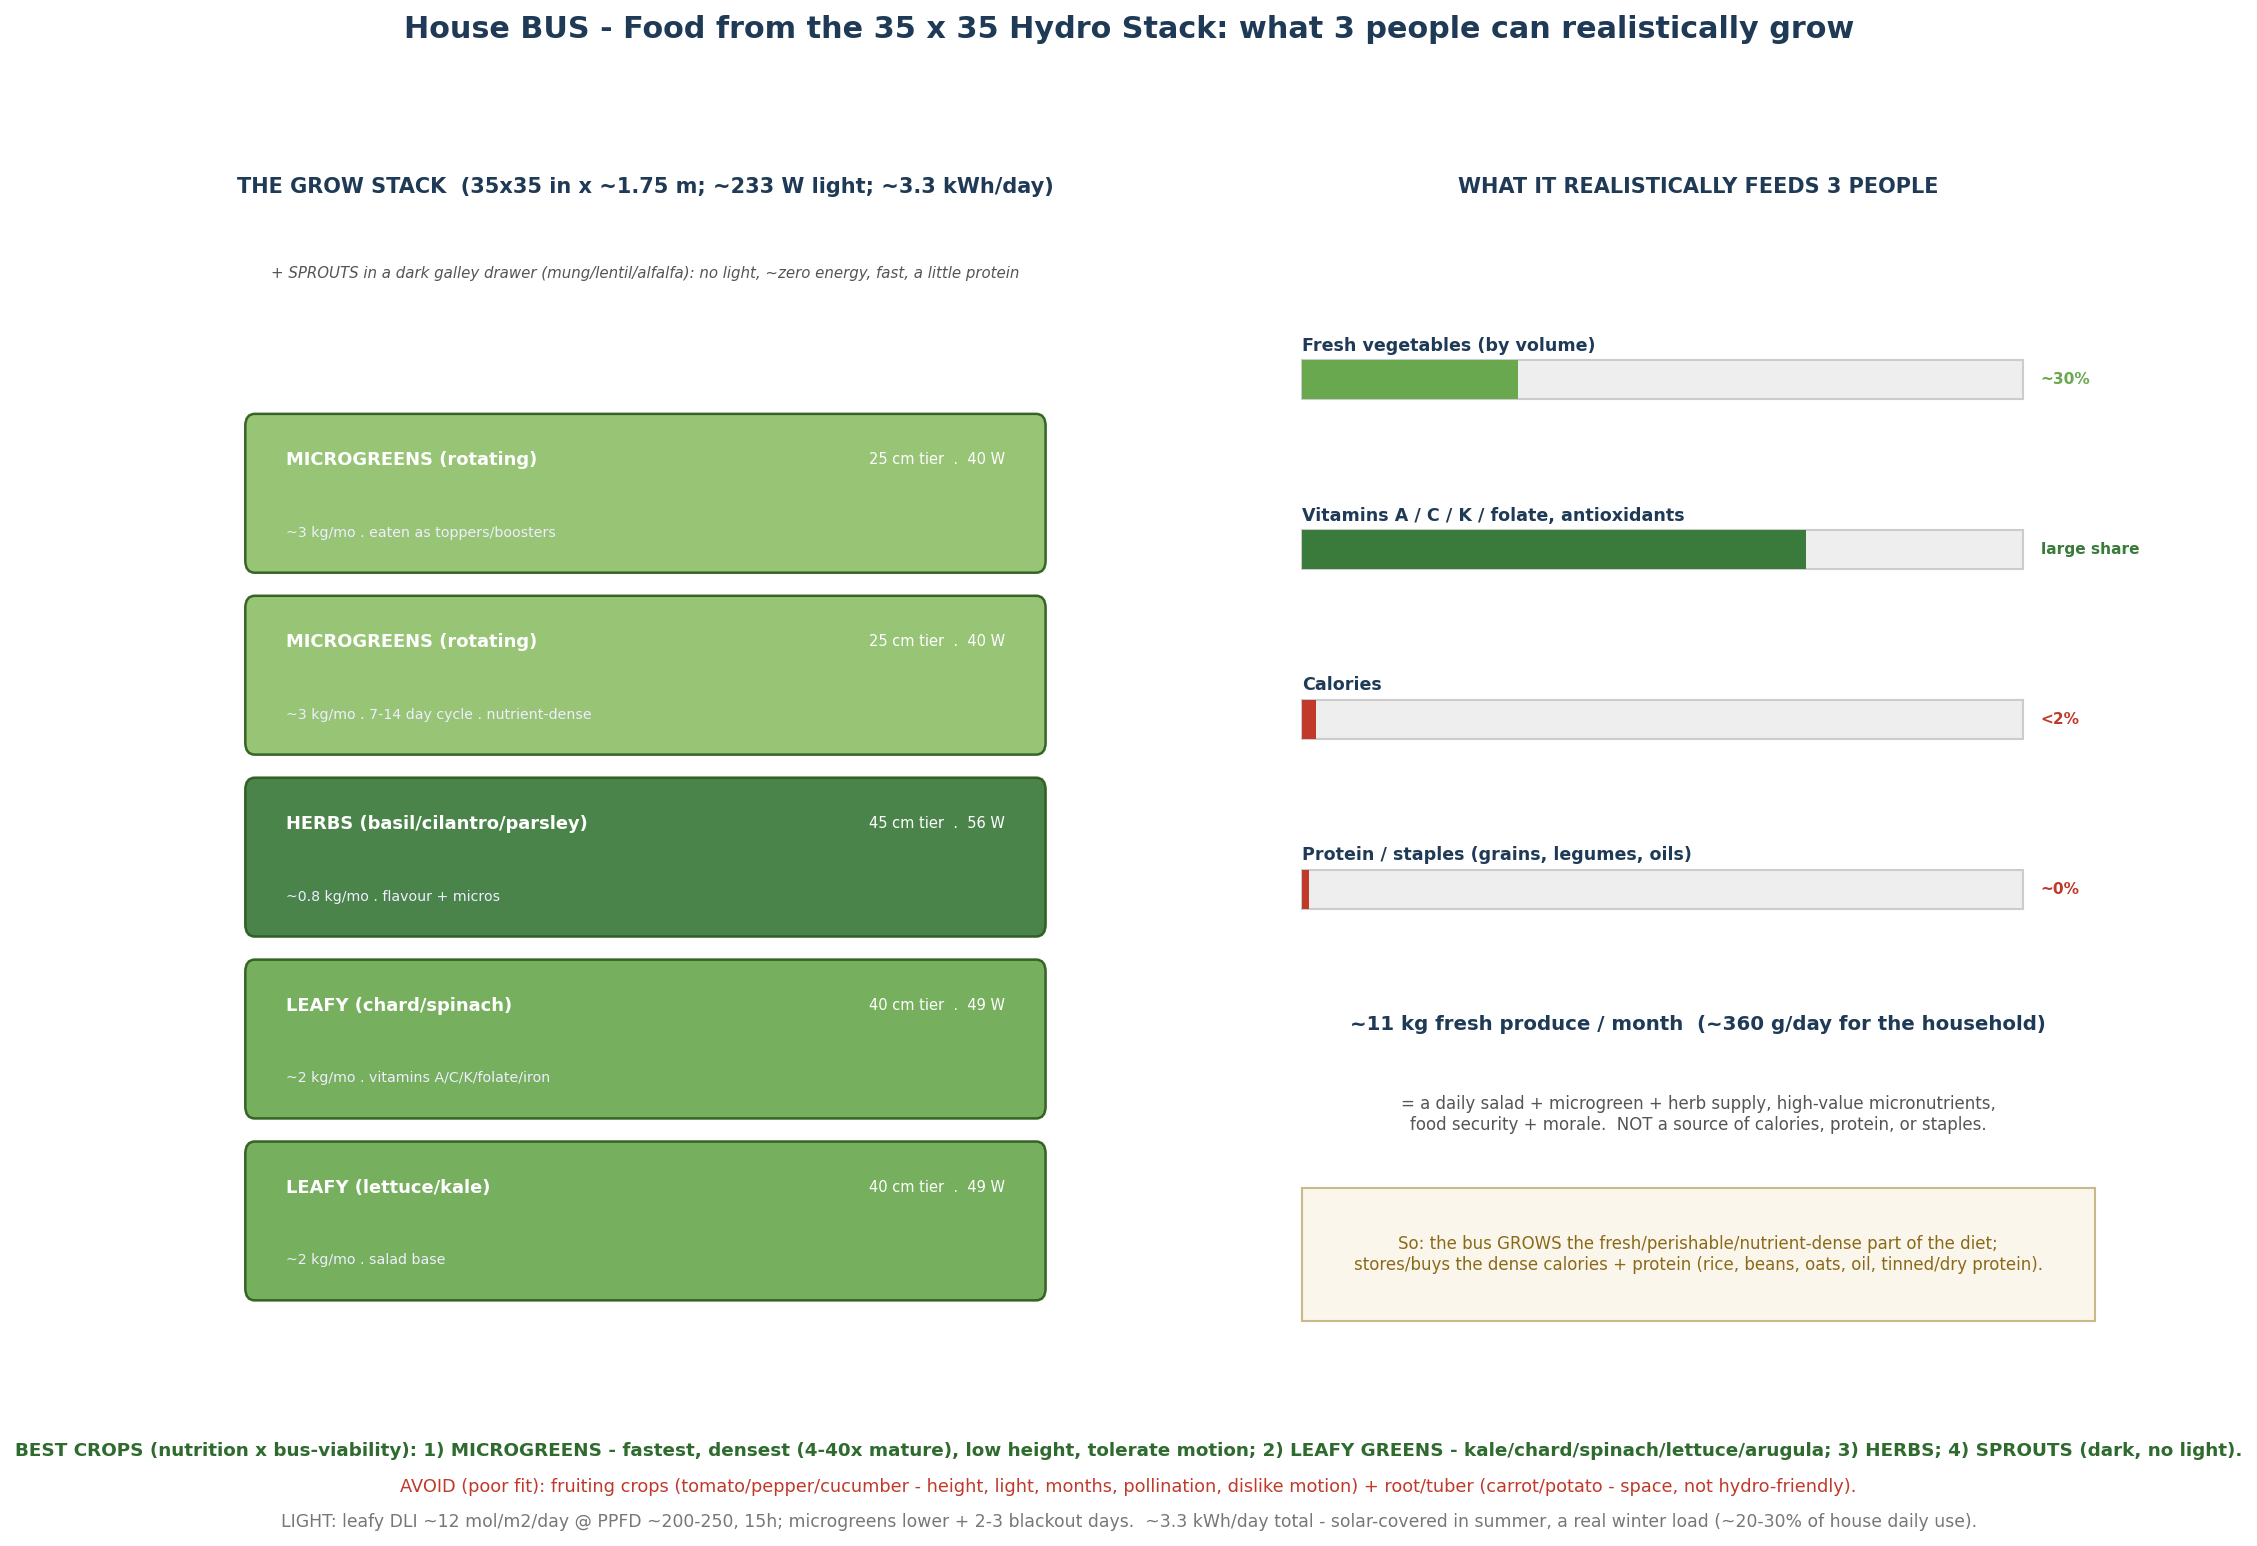
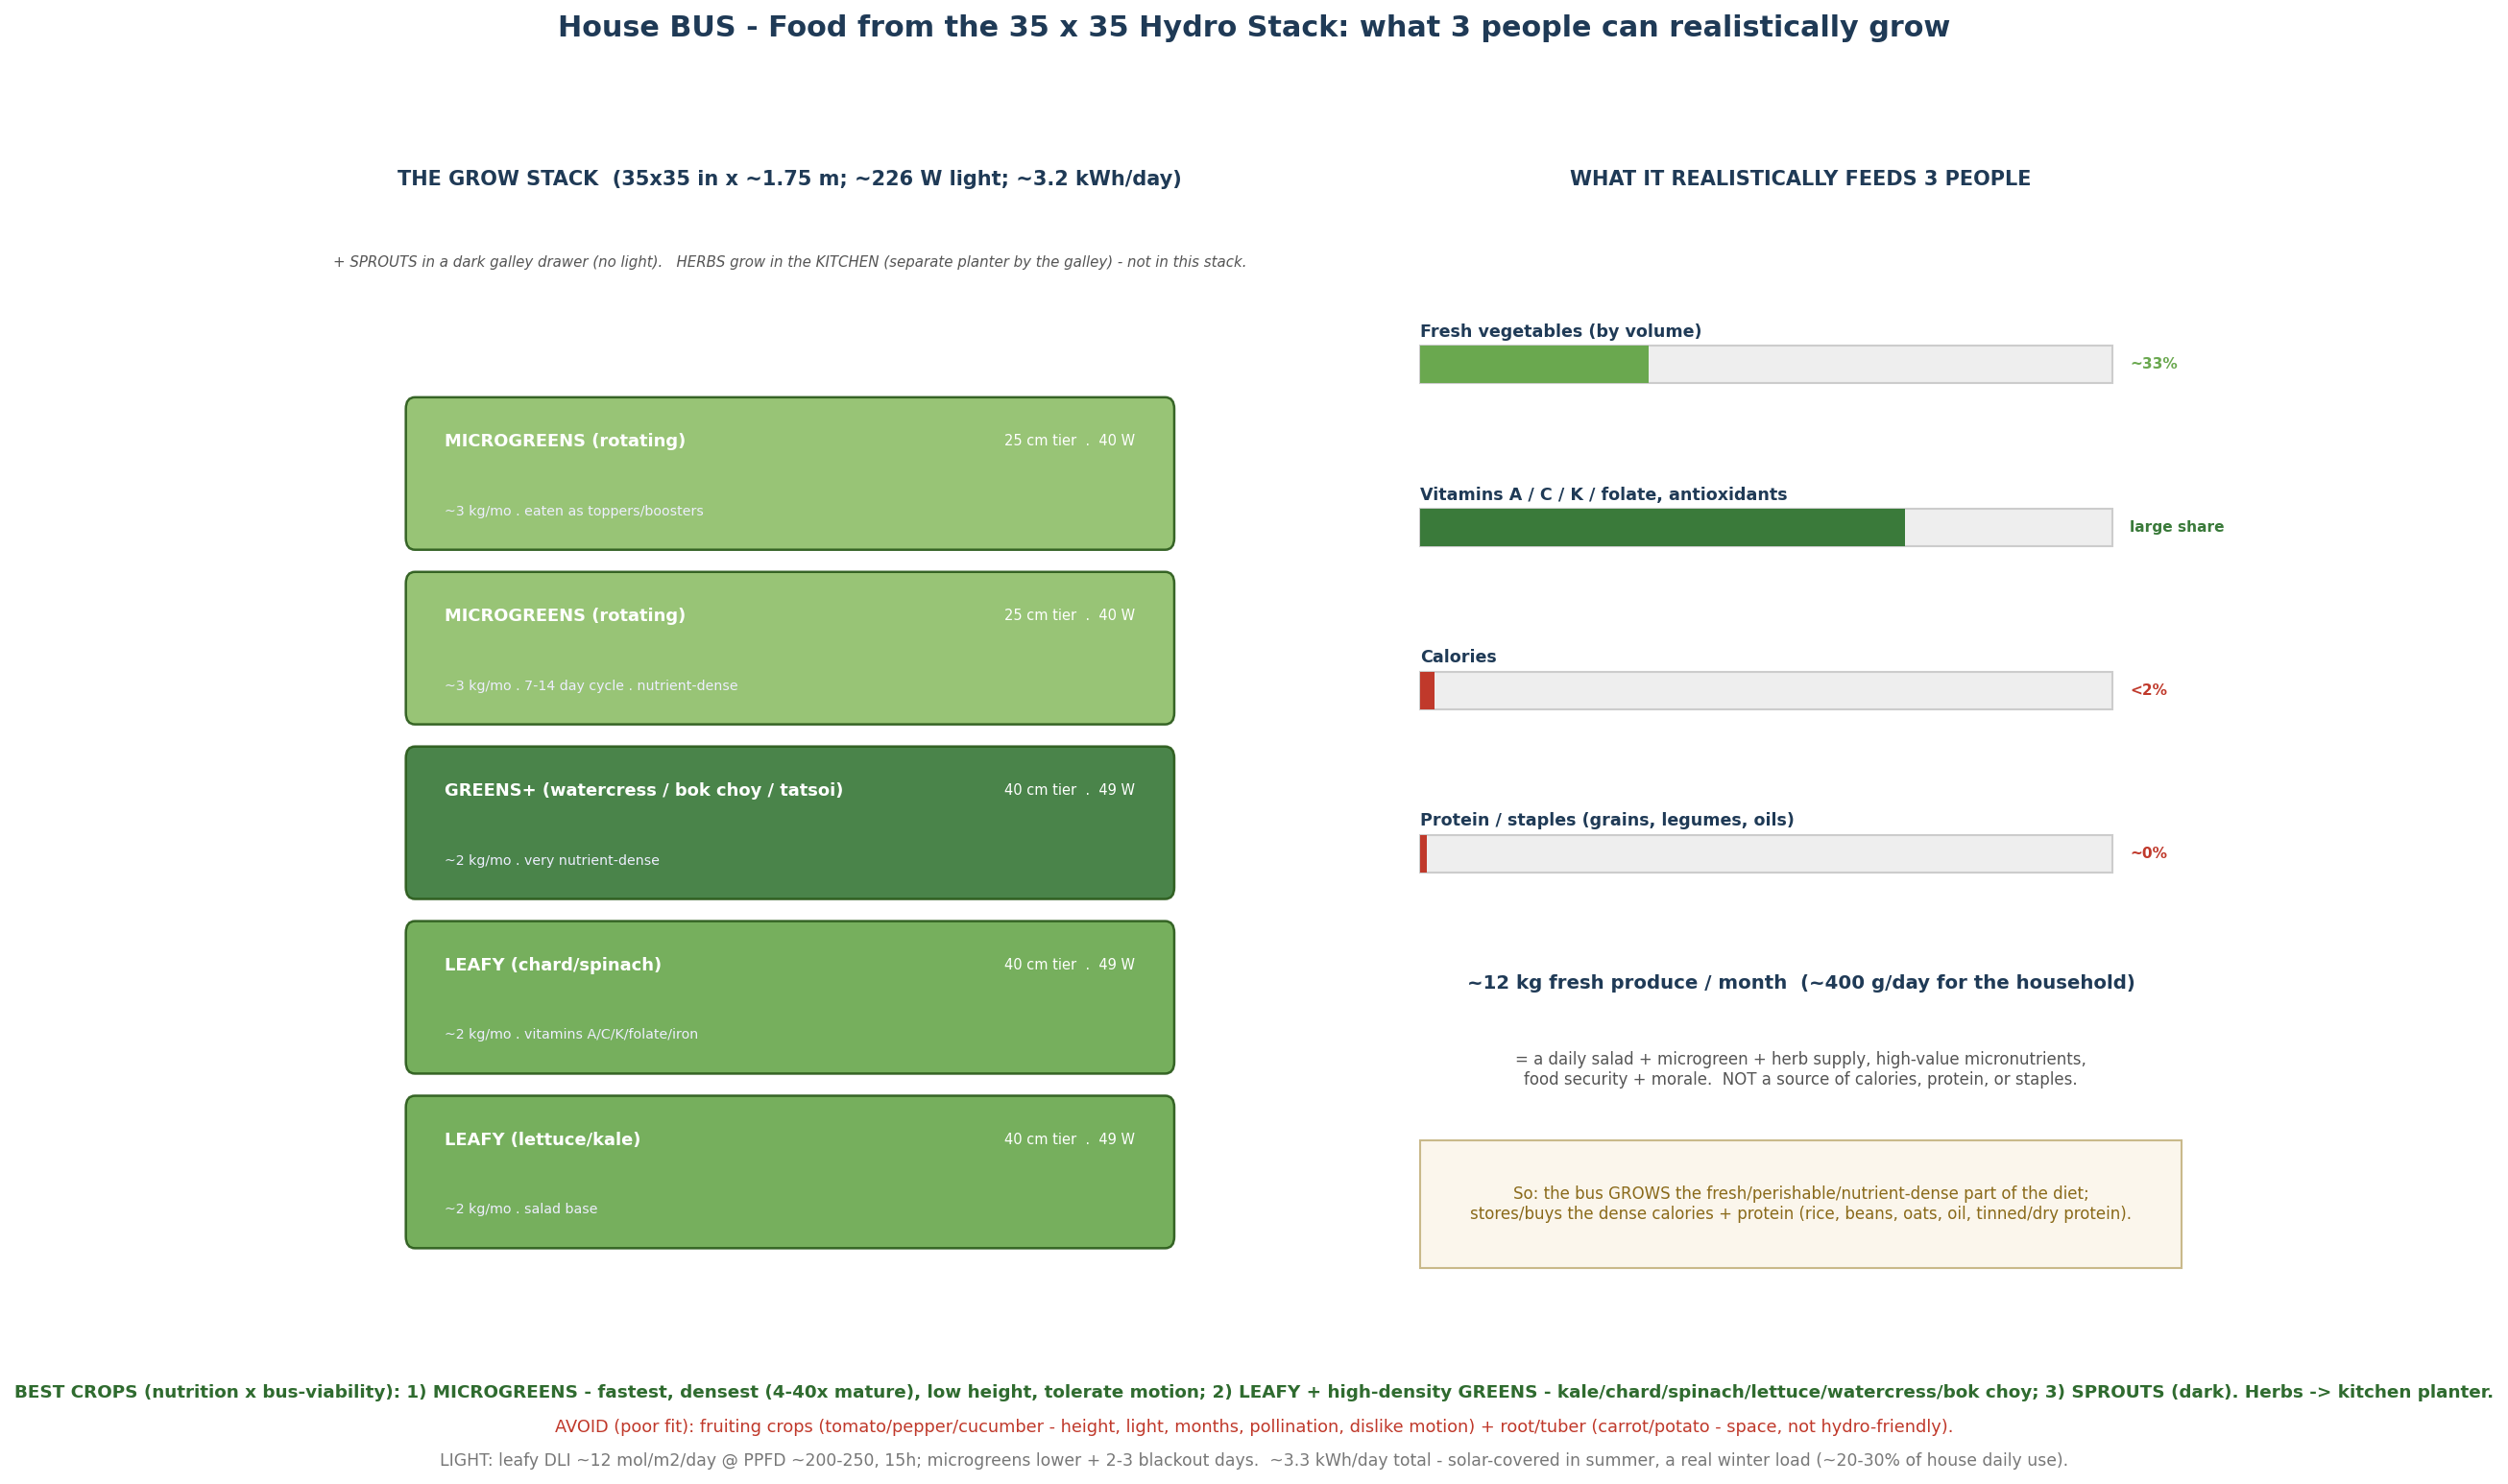
Swap hydro herb tier for high-density greens; herbs -> kitchen
- Remove herbs from the hydro stack (grow them in a small kitchen
  planter by the galley instead)
- Replace that tier with watercress + Asian greens (bok choy/tatsoi/
  mizuna) - watercress is ANDI #1 and hydro-ideal, out-yields herbs
- New stack: 2 leafy + 1 greens+ + 2 microgreen (+ dark sprout
  drawer) -> ~12 kg/mo (~400 g/day, ~33% veg); ~226 W, ~3.2 kWh/day

diff --git a/07_Interior_and_Habitability/Food_and_Hydroponics_Capacity.md b/07_Interior_and_Habitability/Food_and_Hydroponics_Capacity.md
@@ -12,12 +12,14 @@ A 35 × 35 in × ~5-tier hydro stack gives 3 people a **daily fresh-greens + mic
 |---|---|---|---|---|
 | top | Microgreens (rotating) | 25 cm | 40 W | ~3 kg/mo |
 | | Microgreens (rotating) | 25 cm | 40 W | ~3 kg/mo |
-| | Herbs (basil/cilantro/parsley) | 45 cm | 56 W | ~0.8 kg/mo |
+| | **Greens+ (watercress / bok choy / tatsoi)** | 40 cm | 49 W | ~2 kg/mo |
 | | Leafy (chard/spinach) | 40 cm | 49 W | ~2 kg/mo |
 | bottom | Leafy (lettuce/kale) | 40 cm | 49 W | ~2 kg/mo |
 | **+ Sprouts** (mung/lentil/alfalfa) | in a **dark galley drawer** | — | 0 W | fast, a little protein |
 
-**Total ~11 kg fresh produce/month (~360 g/day for the household);** ~233 W of grow light, ~**3.3 kWh/day**.
+**Total ~12 kg fresh produce/month (~400 g/day for the household);** ~226 W of grow light, ~**3.2 kWh/day**.
+
+*(Update, TJ 2026-07-03: **herbs removed from the stack** — they grow in a small **kitchen planter by the galley** instead. That tier is now high-density **watercress + Asian greens** (watercress ranks #1 on the Aggregate Nutrient Density Index and thrives in hydroponics), which out-yields herbs and adds nutrient variety.)*
 
 ## 3. What it covers for 3 people
 - **Fresh vegetables (by volume): ~30%** of the ~400 g/person/day target.
@@ -28,8 +30,10 @@ A 35 × 35 in × ~5-tier hydro stack gives 3 people a **daily fresh-greens + mic
 ## 4. Best crops (nutrition × bus-viability), ranked
 1. **Microgreens** (broccoli, radish, pea, sunflower, kale) — fastest (**7–14 days**), densest nutrition, **low height** (more tiers), tolerate the motion, highest yield per area. *The top pick for a moving bus.*
 2. **Leafy greens** (kale, chard, spinach, lettuce, arugula) — vitamins A/C/K/folate, iron, calcium; easy hydroponically, continuous cut-and-come-again harvest.
-3. **Herbs** (basil, cilantro, parsley, mint, chives) — high-value flavor + micronutrients, small footprint.
+3. **High-density greens** (watercress, bok choy, tatsoi, mizuna) — watercress is one of the most nutrient-dense foods (ANDI #1) and loves hydroponics; Asian greens are fast and compact.
 4. **Sprouts** (mung, lentil, alfalfa) — grown **in the dark** (no light, ~zero energy) in a galley drawer; fast, a little protein.
+
+**Herbs (basil, cilantro, parsley, mint, chives)** grow in a **separate small kitchen planter by the galley** (window + a small LED), not in this stack — freeing the tier for higher-yield greens.
 
 **Avoid (poor fit):** fruiting crops (tomato, pepper, cucumber) — need height, high light, **months**, pollination, and they **dislike the motion**; and root/tuber (carrot, potato) — space-heavy, not hydroponic-friendly.
 
@@ -44,6 +48,3 @@ A 35 × 35 in × ~5-tier hydro stack gives 3 people a **daily fresh-greens + mic
 - **Water/nutrient:** the urine-diverted nutrient loop supplies N (sodium-bleed caveat); size the reservoir + dosing to this crop mix.
 - **Interior:** the sprout drawer in the galley; the stack lighting spectrum/driver selection.
 - **Standard variant:** likely a much smaller grow shelf or none — this full stack is a Signature feature.
-
----
-*Food & hydro capacity, 2026-07-03. Honest: the 35×35 × ~5-tier stack = a fresh salad/microgreen/herb garden (~11 kg/mo, ~360 g/day) covering ~30% of 3 people's veg volume + a large share of vitamins A/C/K/folate/antioxidants, but <2% of calories and ~0% protein/staples (stored/bought). Best crops: microgreens (fastest/densest/low/motion-OK) > leafy greens > herbs > sprouts (dark). Avoid fruiting + root crops. Light ~3.3 kWh/day (leafy DLI ~12, PPFD ~200-250, 15h; ~206 g FW/kWh) — solar-covered in summer, ~20-30% of house use in winter. Feeds energy model + nutrient loop. See food_hydro_capacity.png.*